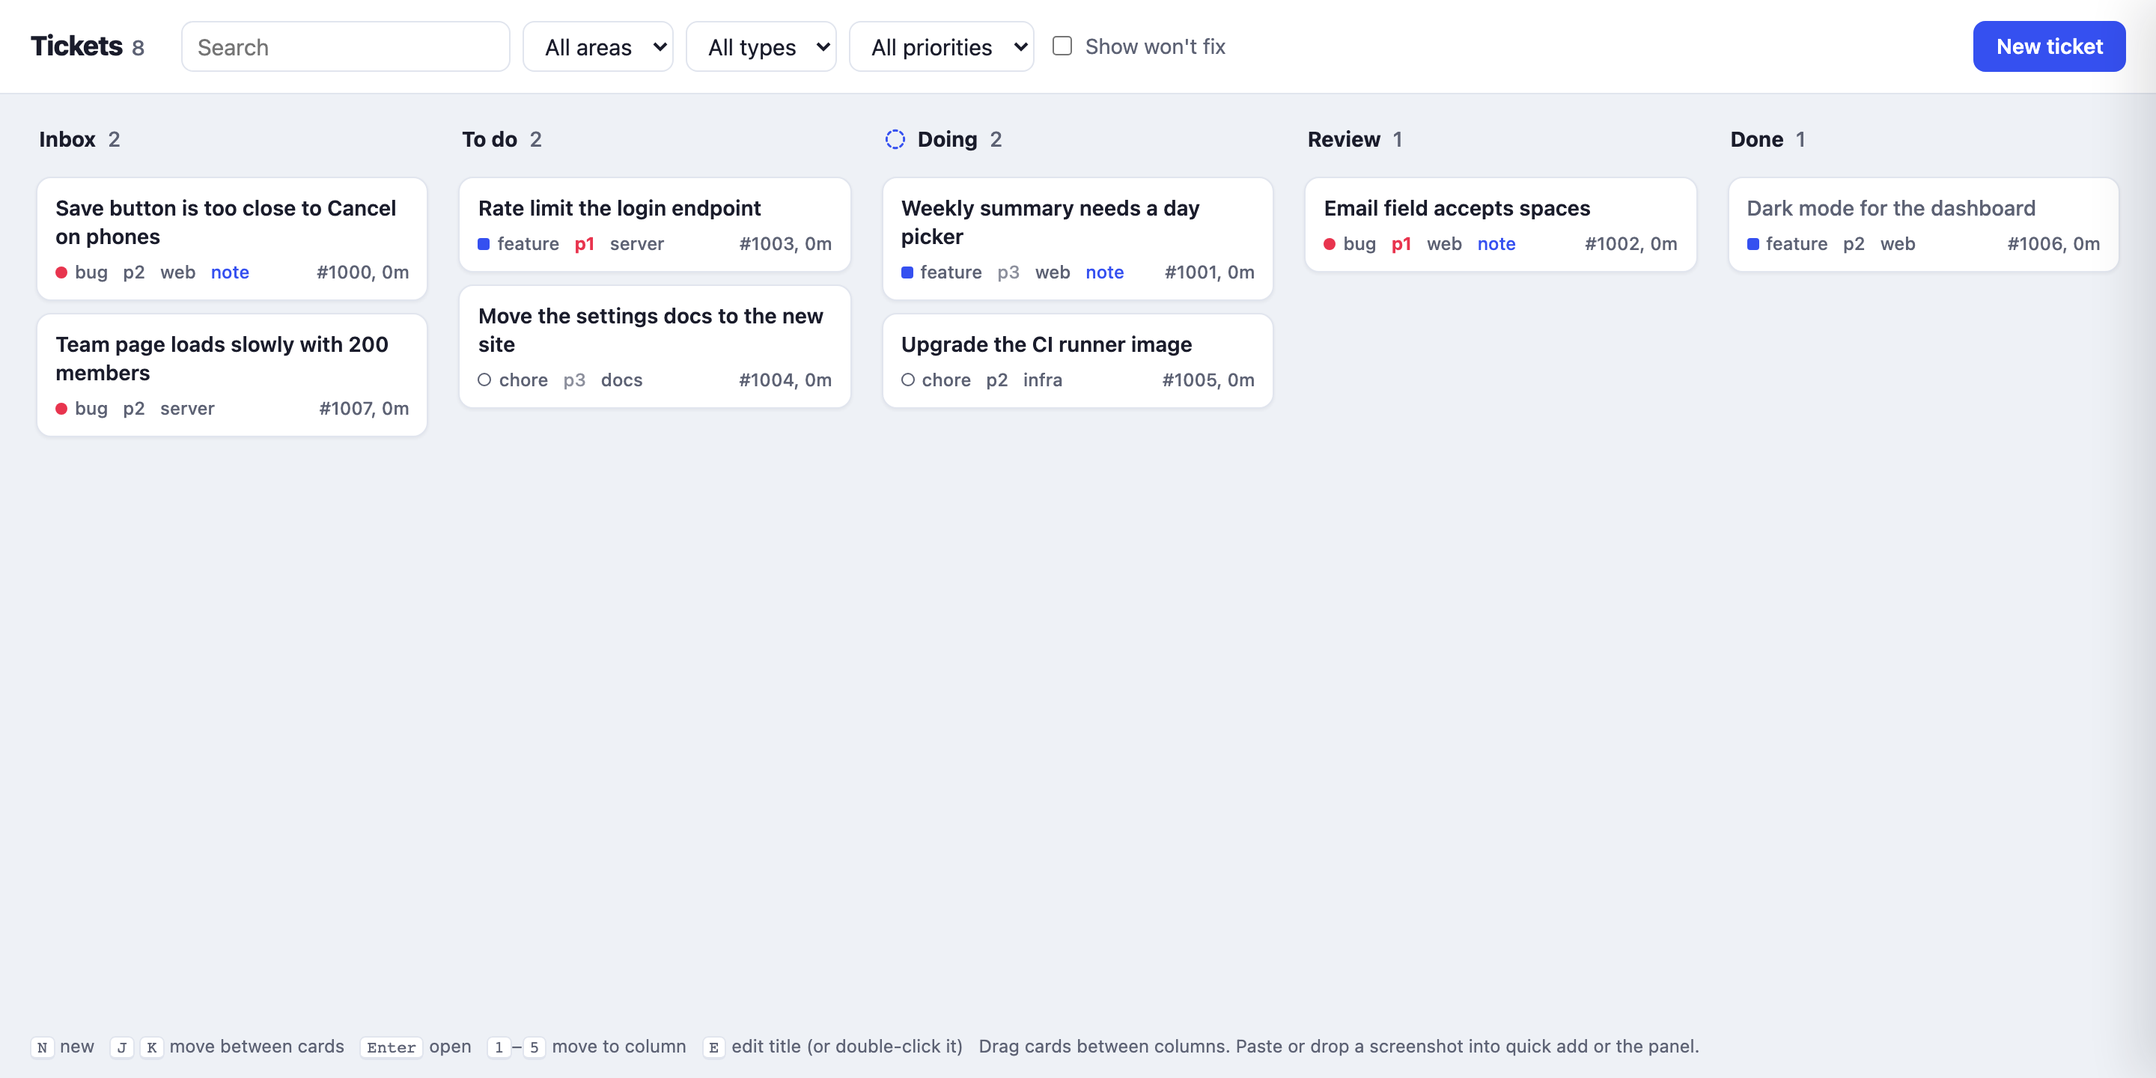
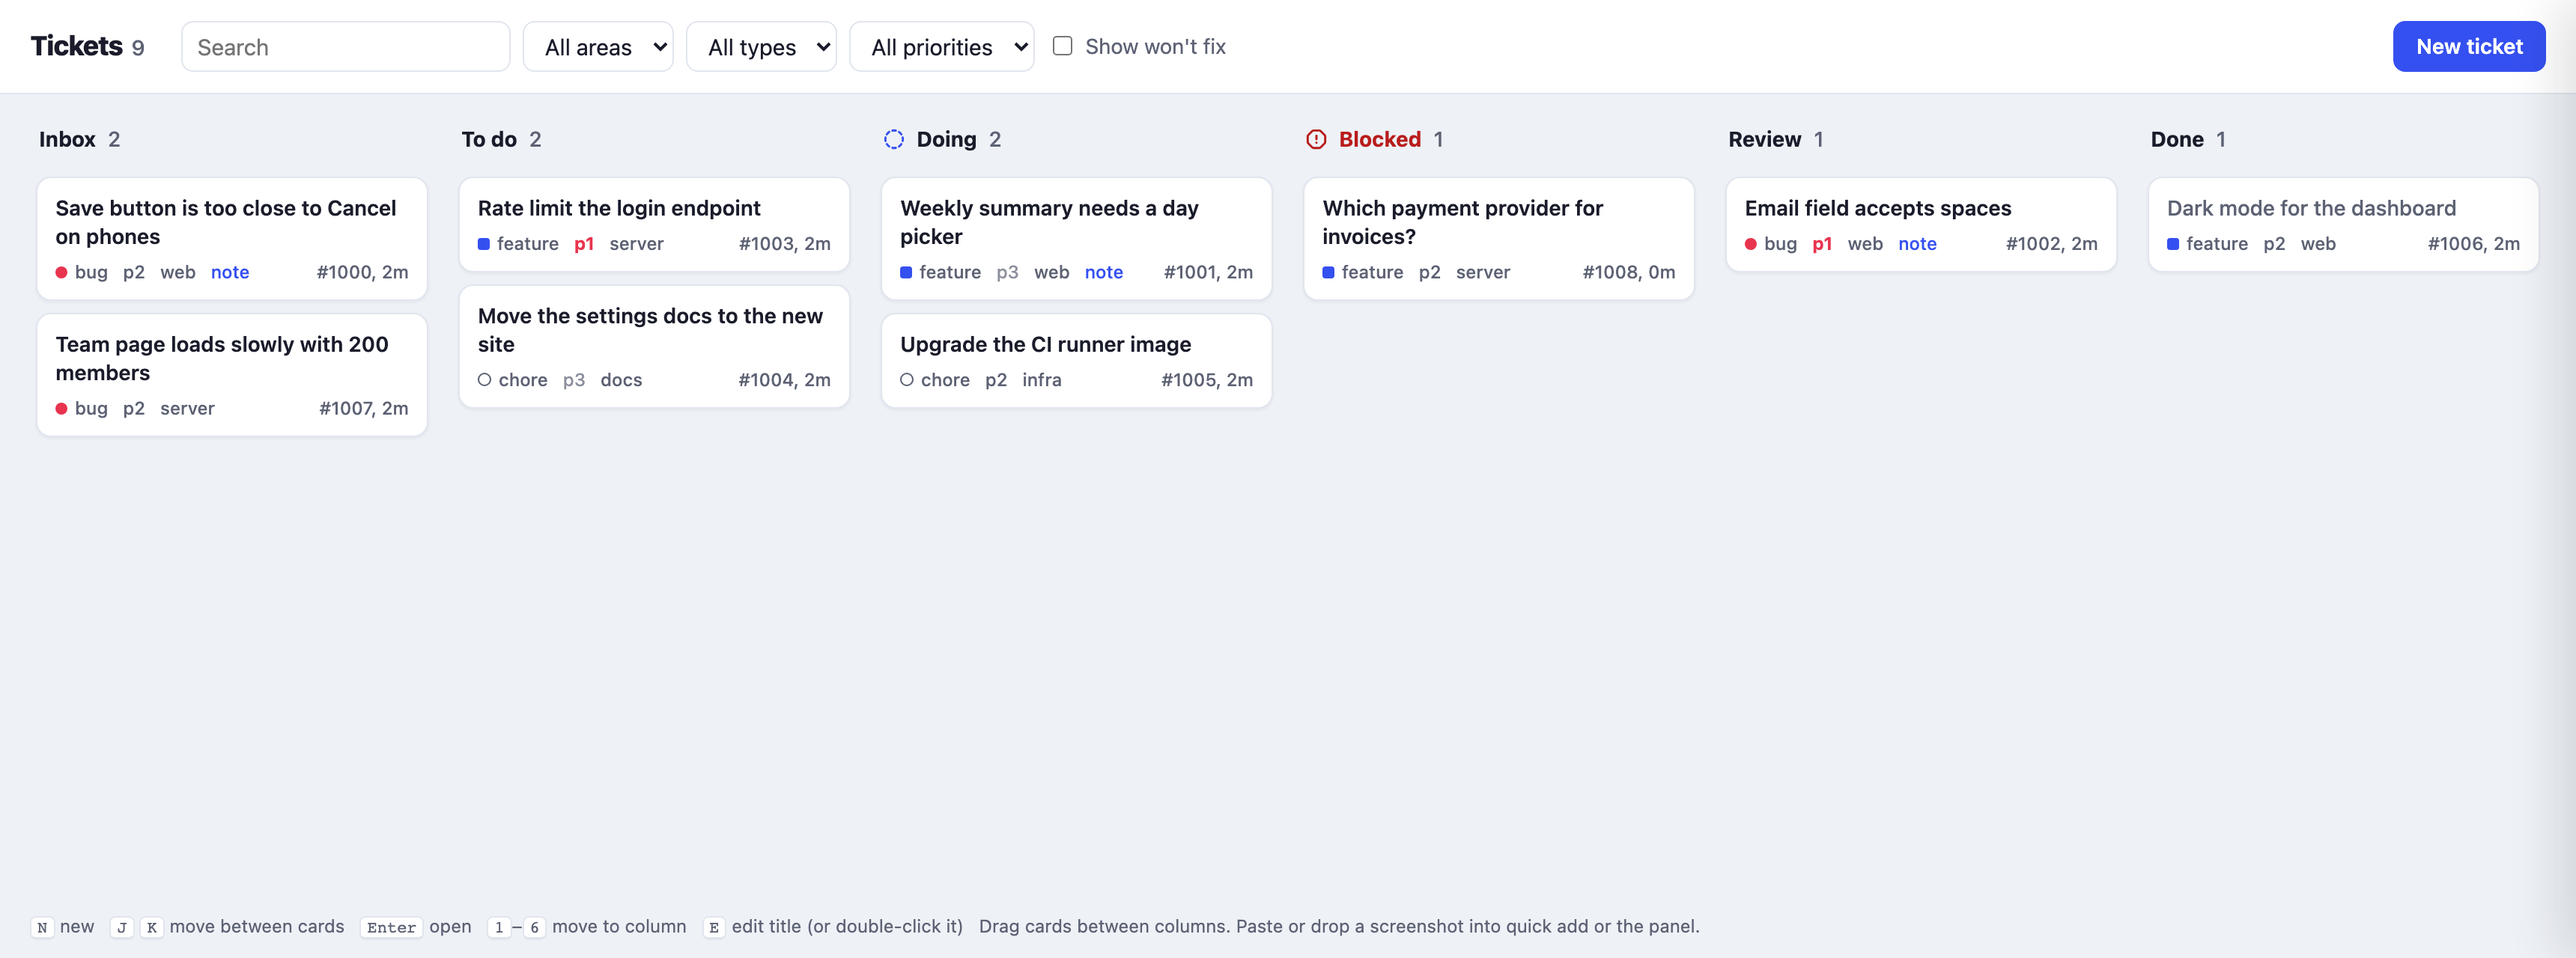
Document the blocked status

diff --git a/skills/claudeweaver/SKILL.md b/skills/claudeweaver/SKILL.md
@@ -29,7 +29,7 @@ The flags are:
 - `-areas`: a comma list of areas. The default is `web,server,docs,infra`. The first area is the default for new tickets.
 - `-tailnet-host`: the Tailscale name of this machine, for example `box.example.ts.net`. Use it with `tailscale serve`, so that a phone on your tailnet can drop notes.
 
-Open `http://localhost:<port>`. On the board, N opens quick add (`feat: Title p1 #web`, then Enter). J and K move between cards. Enter opens a card. Keys 1 to 5 move it to a column. E edits the title. The panel saves as you type. You can paste or drop images into it.
+Open `http://localhost:<port>`. On the board, N opens quick add (`feat: Title p1 #web`, then Enter). J and K move between cards. Enter opens a card. Keys 1 to 6 move it to a column. E edits the title. The panel saves as you type. You can paste or drop images into it.
 
 ## The CLI
 
@@ -92,7 +92,7 @@ The file name is `tickets/<id>-<slug>.md`, for example `tickets/1007-save-button
 id: 1007
 title: Save button overlaps footer
 type: bug          # bug | feature | chore
-status: inbox      # inbox | todo | doing | review | done | wontfix
+status: inbox      # inbox | todo | doing | blocked | review | done | wontfix
 priority: p2       # p1 (urgent) | p2 | p3 (someday)
 area: web          # one of -areas
 created: 2026-10-16T18:04:00Z
@@ -124,6 +124,7 @@ Images go in `tickets/assets/<id>.png`, then `<id>-2.png` and so on. The body li
 - `inbox`: new and not triaged. Only the sticky notes of the human go here.
 - `todo`: accepted and ready to start.
 - `doing`: someone works on it. The name of that agent is in `## Notes`.
+- `blocked`: the agent cannot continue without a decision or a review from the human. The question is in the ticket.
 - `review`: the work is finished and waits for the human.
 - `done` and `wontfix`: closed. Only the human sets these.
 
@@ -133,6 +134,8 @@ Images go in `tickets/assets/<id>.png`, then `<id>-2.png` and so on. The body li
 - Add a note with your name when you start, for example `./.claudeweaver note 1007 "Started." --by claude`.
 - Notes are append-only. Add a new note. Do not rewrite old notes.
 - Commit as you work, not at the end. Put the ticket id in the commit message, for example `settings: keep the save button above the footer (1007)`.
+- If you cannot continue without a decision or a review from the human, set `status: blocked`. Write the question in a `## Blocked` section or in a note. Give the options that you see and the one that you recommend. Then start other work. Do not wait.
+- When the human answers a `blocked` ticket, the human moves it back to `todo` or `doing`. Read the answer before you continue.
 - When you finish, add a `## Resolution` section at the end of the ticket. Then set `status: review`.
 - Never set `done` or `wontfix`. Only the human closes tickets.
 - If you find work that you will not do now, file a ticket. Do not leave a TODO comment in the code. File it with `status: todo` and `source: agent`. The `inbox` status is only for the sticky notes of the human.
@@ -185,7 +188,7 @@ CLI writes and file edits print nothing, so your own writes do not wake you.
 3. When the watch wakes you, and after each restart of the board, list the open work. Events that occur while the board is down are lost.
 
    ```sh
-   ./.claudeweaver ls --status inbox,todo
+   ./.claudeweaver ls --status inbox,todo,doing
    ```
 
 4. For each new ticket, read it with `show`. If it has a screenshot, look at it. Then triage it: set the type, priority and area, and move it to `todo` or start it.

diff --git a/README.md b/README.md
@@ -43,13 +43,15 @@ Open http://localhost:8090. Then add this tag to the dev build of your app only:
 
 Each ticket is one file, for example `tickets/1007-save-button-overlaps-footer.md`. The file has YAML frontmatter (id, title, type, status, priority, area, source) and a Markdown body. You commit the tickets to git with your code. You, the agent and the board all edit the same files. A write by the board changes only the lines it needs and keeps everything else.
 
-A ticket moves through these statuses: `inbox`, `todo`, `doing`, `review`, and then `done` or `wontfix`. The agent sets `doing` when it starts and `review` when it finishes. Only you set `done`.
+A ticket moves through these statuses: `inbox`, `todo`, `doing`, `blocked`, `review`, and then `done` or `wontfix`. The agent sets `doing` when it starts and `review` when it finishes. Only you set `done`.
+
+The agent sets `blocked` when it cannot continue without your decision or review. It writes the question in the ticket and starts other work. You answer in a note, then move the ticket back to `todo` or `doing`.
 
 ### The board
 
 The board is one Go program that uses only the standard library. It has no database. The ticket files are the data. The program serves the kanban page, a JSON API and the overlay script. The same binary is also a CLI (`ls`, `show`, `new`, `mv`, `note`).
 
-On the board, N opens quick add, J and K move between cards, and keys 1 to 5 move a card to a column. You can paste a screenshot into quick add or into the ticket panel. The icon of the Doing column turns, so you can see that work is in progress.
+On the board, N opens quick add, J and K move between cards, and keys 1 to 6 move a card to a column. You can paste a screenshot into quick add or into the ticket panel. The icon of the Doing column turns, so you can see that work is in progress. The Blocked column is red and has a stop-sign icon.
 
 ### The overlay
 
